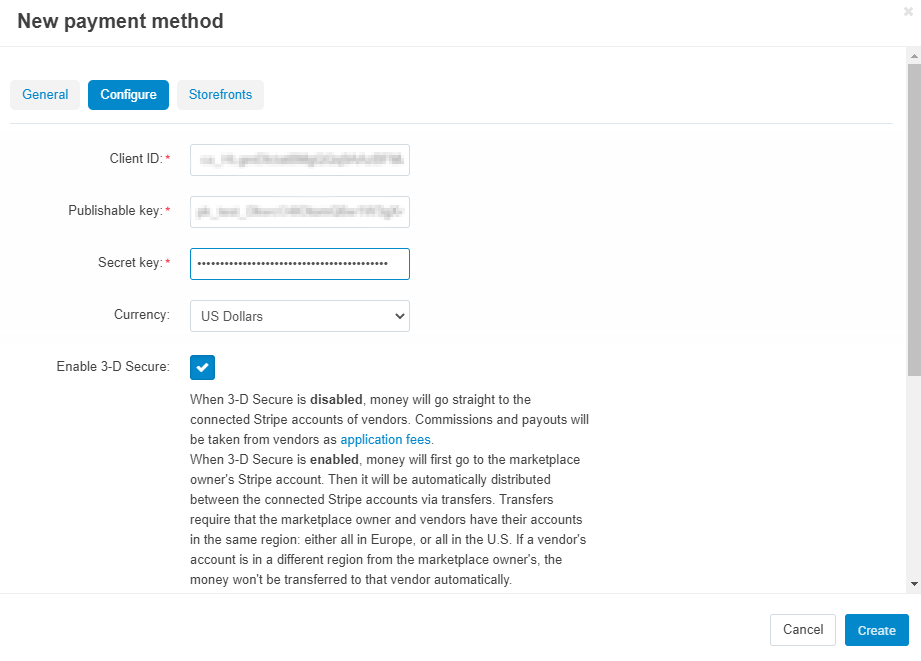
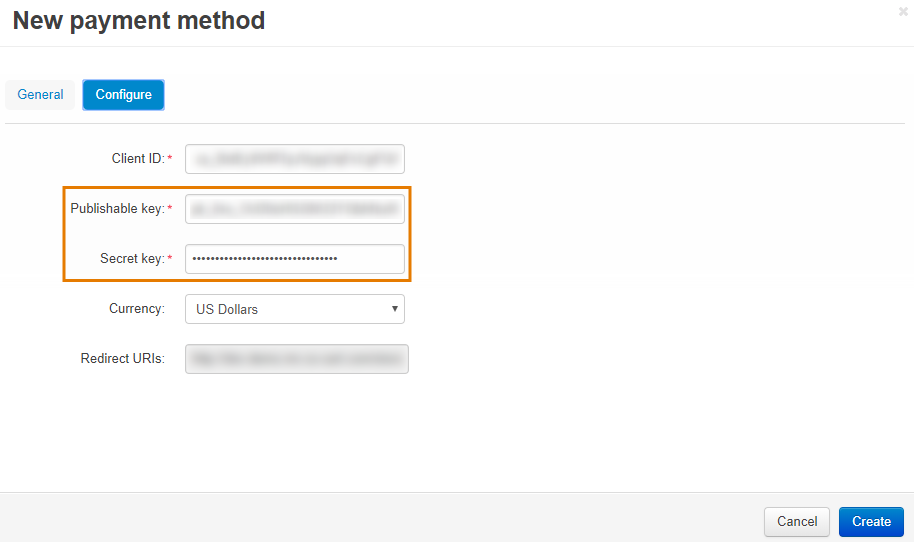
Stripe connect old cscart pics replaced

diff --git a/en/user_guide/addons/stripe_connect/credentials.rst b/en/user_guide/addons/stripe_connect/credentials.rst
@@ -44,10 +44,6 @@ Getting Client ID and Defining Redirect URI
 
 #. Copy both Redirect URIs from the Stripe Connect payment method settings in Multi-Vendor, go back to the Stripe dashboard and insert the URIs into the corresponding field.
 
-   .. image:: img/stripe_сscart_redirect_uri.png
-       :align: center
-       :alt: Stripe redirect URI.
-
    .. image:: img/stripe_redirect_uri.png
        :align: center
        :alt: Stripe redirect URI.
